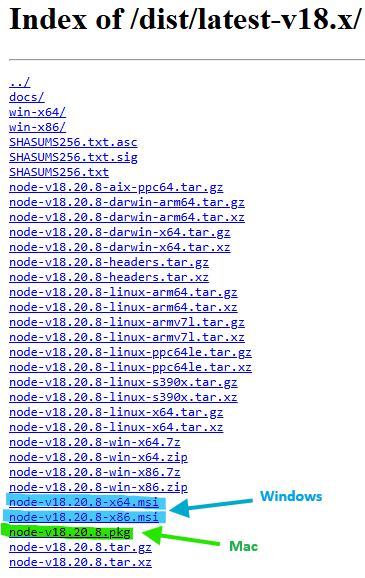
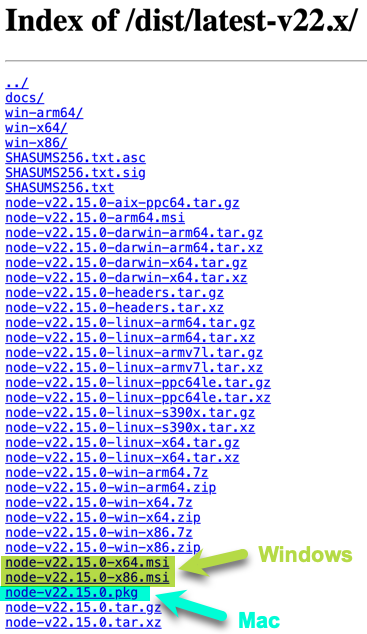
Lab 1 Updates
- SPFx 1.21 (and node 22)
- Link fixes
- Dev Program update
- Extra ramblings
- PnP Generator link removal

diff --git a/Lab01/README.md b/Lab01/README.md
@@ -1,6 +1,6 @@
 # Lab 1: Getting Your Environment Ready
 
-Welcome to your first lab! This lab is all about getting your development environment ready, adding some extra tools that will make your life easier, briefly introducing key TypeScript concepts, and setting up a tenant and your browser to keep things organized.
+Welcome to your first lab! This lab is all about getting your **development environment** ready, adding some **extra tools** that will make your life easier, briefly introducing key **TypeScript** concepts, connecting to a **tenant**, and configuring your **browser** to keep things organized.
 
 > :bulb: Even if you already have your development environment setup, please review each step as there are some extra items specific to the rest of the labs!
 
@@ -29,18 +29,18 @@ Welcome to your first lab! This lab is all about getting your development enviro
   1. [Install Yeoman](#rocket-exercise-5-install-yeoman)
   1. [Install Yeoman SharePoint Generator](#rocket-exercise-6-install-yeoman-sharepoint-generator)
   1. [Install TypeScript](#rocket-exercise-7-install-typescript)
-  1. [Install CLI for Microsoft 365](#rocket-exercise-8-install-cli-for-microsoft-365)
+  1. [Install CLI for Microsoft 365](#rocket-exercise-8-install-cli-for-microsoft-365-optional)
   1. [Install Essential Visual Studio Code extensions](#rocket-exercise-9-install-essential-visual-studio-code-extensions)
-  1. [Create your own Dev tenant](#rocket-exercise-13-create-your-own-dev-tenant)
-  1. [Using browser profiles](#rocket-exercise-14-using-browser-profiles)
+  1. [Create your own Dev tenant](#rocket-exercise-10-create-your-own-dev-tenant)
+  1. [Using browser profiles](#rocket-exercise-11-using-browser-profiles)
 
 </details>
 
 ## :rocket: Exercise 1: Configure your Windows workstation for development
 
-This step will configure your workstation as a development workstation by configuring the least privileges required to be able to work well with SPFx development.
+This step will configure a **Windows** workstation as a development workstation by configuring the least privileges required to be able to work well with SPFx development.
 
-> The instructions assume the use of a Windows machine. However, this is not required for SPFx development. You can skip this excercise if using a Mac :apple:. In later exercises, steps for Mac users are called out when they differ.
+> The instructions assume the use of a Windows machine. However, this is **not required** for SPFx development. You can [skip](#rocket-exercise-2-install-nodejs) this excercise if using a Mac :apple:. In later exercises, steps for Mac users are called out when they differ.
 
 1. From your Windows machine, use the **Start menu** and search for **Use developer features**
 1. On the **Privacy & Security > For developers** page, under **Developer Mode**, look for **Install apps from any source, including loose files**:
@@ -63,30 +63,34 @@ This step will configure your workstation as a development workstation by config
 
 ## :rocket: Exercise 2: Install Node.js
 
-Node.js maintains two different releases at all times: LTS & Current version. SPFx is only supported on **LTS (Long Term Support) versions**. The specific version to use [depends on the version of SPFx you're using](https://learn.microsoft.com/en-us/sharepoint/dev/spfx/compatibility#spfx-development-environment-compatibility). We are targeting **SPFx 1.20.0** which uses **LTS Node.js v18**.
+Node.js provides a runtime environment to execute JavaScript outside a browser and lets us use tools like Gulp, Yeoman, and npm - which are all needed to scaffold, develop, and build SPFx projects.
 
-> :bulb: Admin privileges are required to install Node.js directly using the .msi. You can get around this by using [Node Version Switcher (NVS)](https://github.com/jasongin/nvs). Once installed, you can open a command prompt and enter `nvs` and it will ask you to choose a version of Node.js and will get it setup to be used locally.
+Node.js maintains two different releases at all times: LTS & Current version. SPFx is only supported on **LTS (Long Term Support) versions**. The specific version to use [depends on the version of SPFx you're using](https://learn.microsoft.com/en-us/sharepoint/dev/spfx/compatibility#spfx-development-environment-compatibility). We are targeting [**SPFx 1.21.0**](https://learn.microsoft.com/en-us/sharepoint/dev/spfx/release-1.21) which uses [**LTS Node.js v22**](https://nodejs.org/dist/latest-v22.x/).
 
-1. Using your browser, go to <https://nodejs.org/dist/latest-v18.x>
+> :bulb: Admin privileges are required to install Node.js directly using the .msi. You can get around this by using [Node Version Switcher (NVS)](https://github.com/jasongin/nvs?tab=readme-ov-file#nvs-node-version-switcher). Once installed, you can open a command prompt and enter `nvs` and it will ask you to choose a version of Node.js and will get it setup to be used locally (choose the latest).
+
+1. Using your browser, go to <https://nodejs.org/dist/latest-v22.x/>
 1. Pick and download the latest version of Node in that page (highest number) which is compatible with your workstation. For Windows, use the correct **.msi** version and on Mac :apple:, use the **.pkg** version:
 
     ![Node file listing](assets/nodefiles.png)
 
 1. :shield: Install using all the default options. When asked about tools for Native Modules you can leave this unchecked (not needed for SPFx development)
 
-> :bulb: The use of a Node version manager is highly recommended but beyond the scope of these labs. You're welcome to follow the instructions to get these configured and using the latest version of LTS Node.js v18 using some of the links below but it is an advanced configuration and NOT required
+> :bulb: The use of a Node version manager is highly recommended but beyond the scope of these labs. You're welcome to follow the instructions to get these configured and using the latest version of LTS Node.js v22 using some of the links below but it is an advanced configuration and NOT required.
 
 #### :books: Resources
 
 - [SPFx Node.js instructions](https://learn.microsoft.com/en-us/sharepoint/dev/spfx/set-up-your-development-environment#install-nodejs)
 - [SPFx development environment compatibility](https://learn.microsoft.com/en-us/sharepoint/dev/spfx/compatibility#spfx-development-environment-compatibility)
+- :bulb: [Node Version Switcher (NVS)](https://github.com/jasongin/nvs)
 - :apple: [Node Version Manager (for Linux/Mac)](https://github.com/nvm-sh/nvm)
 - :shield: [NVM for Windows](https://github.com/coreybutler/nvm-windows)
-- [Node Version Switcher (NVS)](https://github.com/jasongin/nvs)
 
 ## :rocket: Exercise 3: Install VS Code
 
 You can technically use any code editor or IDE that supports client-side development and if you've already got one you prefer, you're welcome to use it. However, we'll be using [Visual Studio Code](https://code.visualstudio.com/) and we highly recommend it.
+
+> Even if you plan to use a different editor, we suggest using VS Code for these labs to make it easier to follow along and to take advantage of optional extensions we'll reference
 
 1. Go to <https://code.visualstudio.com> and using the big button download the installer (use the arrow to choose a specific version for Mac or Linux)
 1. Install using all the default options
@@ -114,6 +118,8 @@ You can technically use any code editor or IDE that supports client-side develop
 
 > Note: You may not see a `Local version` if you're not currently in a project folder (we installed globally by using `-g`). That's OK!
 
+> :bulb: npm stands for Node Package Manager and it was installed as part of Node.js. npm is used to manage and install libraries, frameworks, and tools (like Gulp). You will use it relatively often so it's a good tool to get comfortable with!
+
 #### :books: Resources
 
 - [SPFx Gulp instructions](https://learn.microsoft.com/en-us/sharepoint/dev/spfx/set-up-your-development-environment#install-gulp)
@@ -136,7 +142,7 @@ You can technically use any code editor or IDE that supports client-side develop
 
 ## :rocket: Exercise 6: Install Yeoman SharePoint generator
 
-The Yeoman SharePoint generator helps you quickly create a SharePoint client-side solution project with the right toolchain and project structure. The generator provides common build tools and common boilerplate code.
+The Yeoman SharePoint generator helps you quickly create a SharePoint client-side solution project with the right toolchain and project structure. The generator provides common build tools and common boilerplate code (starter project).
 
 1. From the command prompt, enter the following command: `npm install @microsoft/generator-sharepoint -g`, followed by <kbd>Enter</kbd>.
 
@@ -149,13 +155,12 @@ The Yeoman SharePoint generator helps you quickly create a SharePoint client-sid
 
 - [SPFx Yeoman Generator instructions](https://learn.microsoft.com/sharepoint/dev/spfx/set-up-your-development-environment#install-yeoman-sharepoint-generator)
 - [Yeoman generator for the SharePoint Framework](https://learn.microsoft.com/sharepoint/dev/spfx/yeoman-generator-for-spfx-intro)
-- [PnP SPFx Yeoman generator](https://pnp.github.io/generator-spfx/)
 
 ## :rocket: Exercise 7: Install TypeScript
 
 [TypeScript](https://www.typescriptlang.org/) is a strongly typed programming language that builds on JavaScript and is what SPFx uses.
 
-> Not needed as an independent installation for SPFx development, but we will be using it in later steps
+> You don't typically need to install Typescript as an independent installation for SPFx development, but we will be using it in later steps to demonstrate how SPFx code (written in TypeScript) becomes JavaScript
 
 1. From the command prompt, enter the following command: `npm install typescript -g`, followed by <kbd>Enter</kbd>.
 1. Don't panic, the installation is very quick!
@@ -176,6 +181,8 @@ The [CLI for Microsoft 365](https://pnp.github.io/cli-microsoft365) is a command
 1. When the installation is complete, enter `m365`, followed by <kbd>Enter</kbd>.
 1. If it doesn't scream at you, you are good!
    ![Testing M365CLI](assets/m365cliinstall.png)
+
+> Wowee, that's a lotta command groups beyond spfx! Turns out this CLI thing is super powerful in all sorts of ways. We won't be touching on it much in these labs, but we highly recommend getting familiar with what it can do!
 
 #### :books: Resources
 
@@ -198,6 +205,7 @@ Visual Studio Code extensions are plugins for VS Code that provide extra functio
     - [**Live Share**](https://marketplace.visualstudio.com/items?itemName=MS-vsliveshare.vsliveshare)
     - [**Peacock**](https://marketplace.visualstudio.com/items?itemName=johnpapa.vscode-peacock)
     - [**GitHub Copilot**](https://marketplace.visualstudio.com/items?itemName=GitHub.copilot) - Subscription required!
+    - [**vscode-pets**](https://marketplace.visualstudio.com/items/?itemName=tonybaloney.vscode-pets)
     - Extra credit: [**Sharing is Caring**](https://marketplace.visualstudio.com/items?itemName=PnP-SharingisCaring.sharing-is-caring)
 
 #### :books: Resources
@@ -208,13 +216,19 @@ Visual Studio Code extensions are plugins for VS Code that provide extra functio
 
 Working in production is generally not a good idea. Besides, you're rarely going to be a global admin in your primary tenant. This can make trying out features, creating app registrations, provisioning assets, etc. challenging or plain impossible.
 
-Good news! Microsoft will provide you a FREE tenant to do development work in!
+Thanks to [Midnight Blizzard](https://www.microsoft.com/en-us/security/blog/tag/midnight-blizzard-nobelium/?sort-by=newest-oldest&date=any) (a large scale security incident that led to the pause of the dev program), you are not currently able to get a developer tenant for free.
 
-If you don't already have one, Go to <http://aka.ms/m365devprogram> and follow the steps to create your own tenant. Use a name for yourself -- not your company name. For example, **Tahoe Ninja** instead of **Microsoft**.
+If you already have a developer tenant, you can use that for these labs or you can use a company tenant (You will need permission to deploy to an app catalog). We also have a number of temporary accounts available with the required permissions if you're in the room.
+
+[Exciting updates coming to the Microsoft 365 Developer Program - April 23, 2025](https://devblogs.microsoft.com/microsoft365dev/exciting-updates-coming-to-the-microsoft-365-developer-program/)
+
+~~Good news! Microsoft will provide you a FREE tenant to do development work in!~~
+
+~~If you don't already have one, Go to <http://aka.ms/m365devprogram> and follow the steps to create your own tenant. Use a name for yourself -- not your company name. For example, **Tahoe Ninja** instead of **Microsoft**.~~
 
 ![Join the Microsoft 365 Developer Program](assets/devprogram.png)  
 
-Follow the steps to create your tenant. We'll use the tenant in later labs.
+~~Follow the steps to create your tenant. We'll use the tenant in later labs.~~
 
 #### :books: Resources
 
@@ -228,7 +242,7 @@ Browser profiles allow you to create a different instance of your browser, using
 
 These instructions are for Microsoft Edge. You can also use **User profiles** in Chrome if you wish (instructions not provided but pretty similar)
 
-1. Using Edge, reveal the profile menu by selecting your profile picture in the upper right corner.
+1. Using Edge, reveal the profile menu by selecting your profile picture in the upper left corner.
 
    ![Browser profile](assets/browserprofile.png)
 1. Find the **Add profile** menu (it may be located under **Other profiles** )
